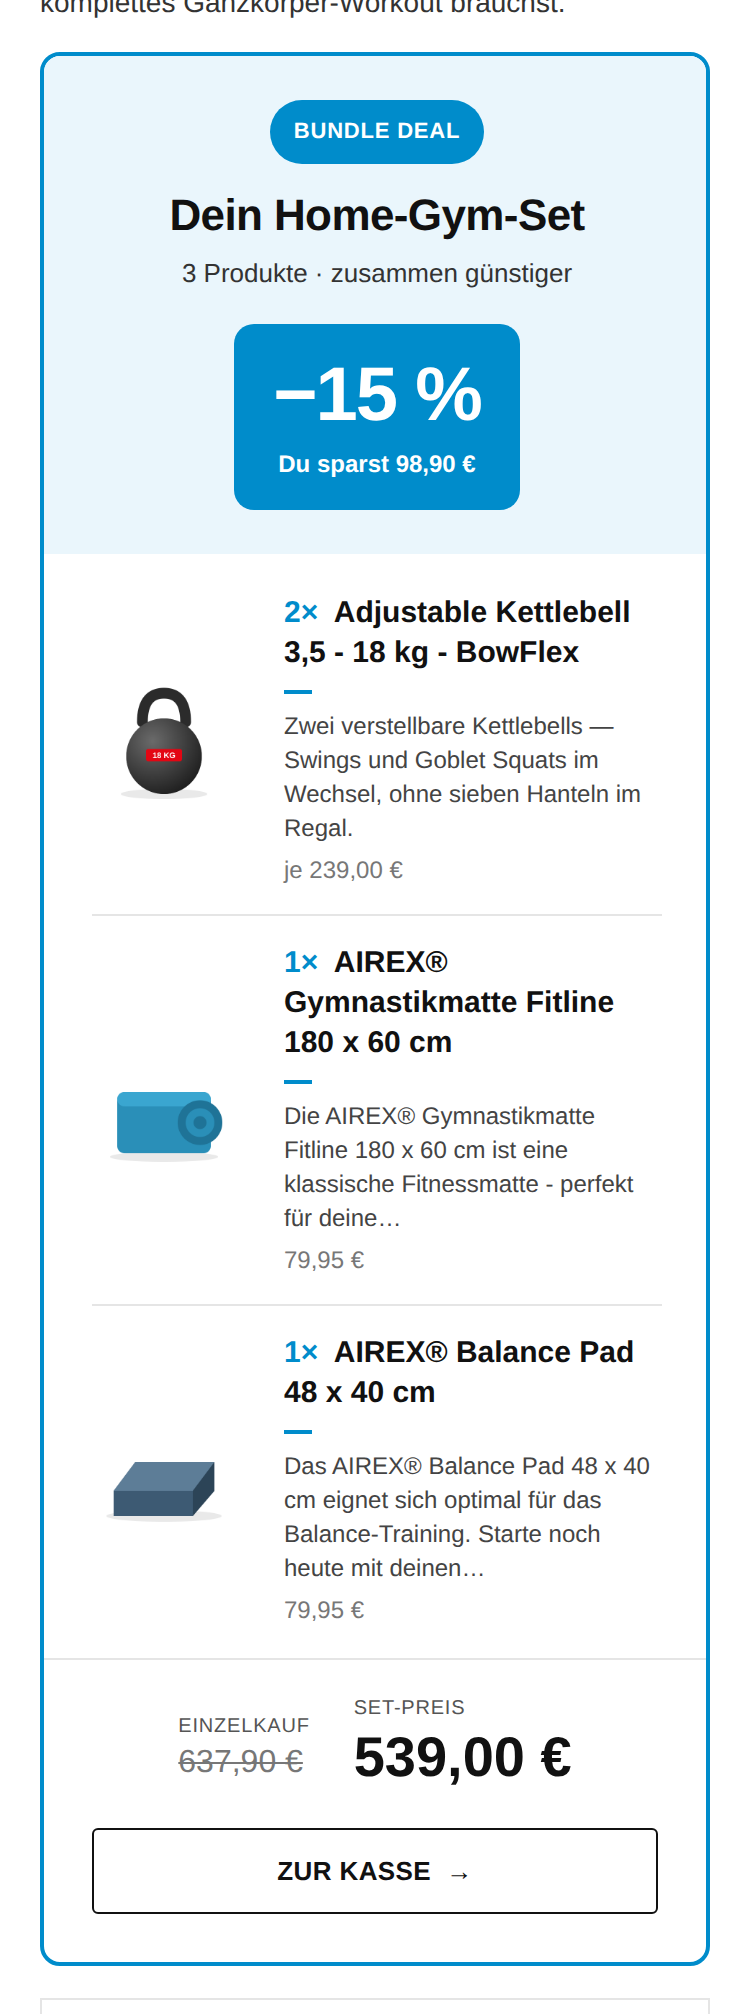
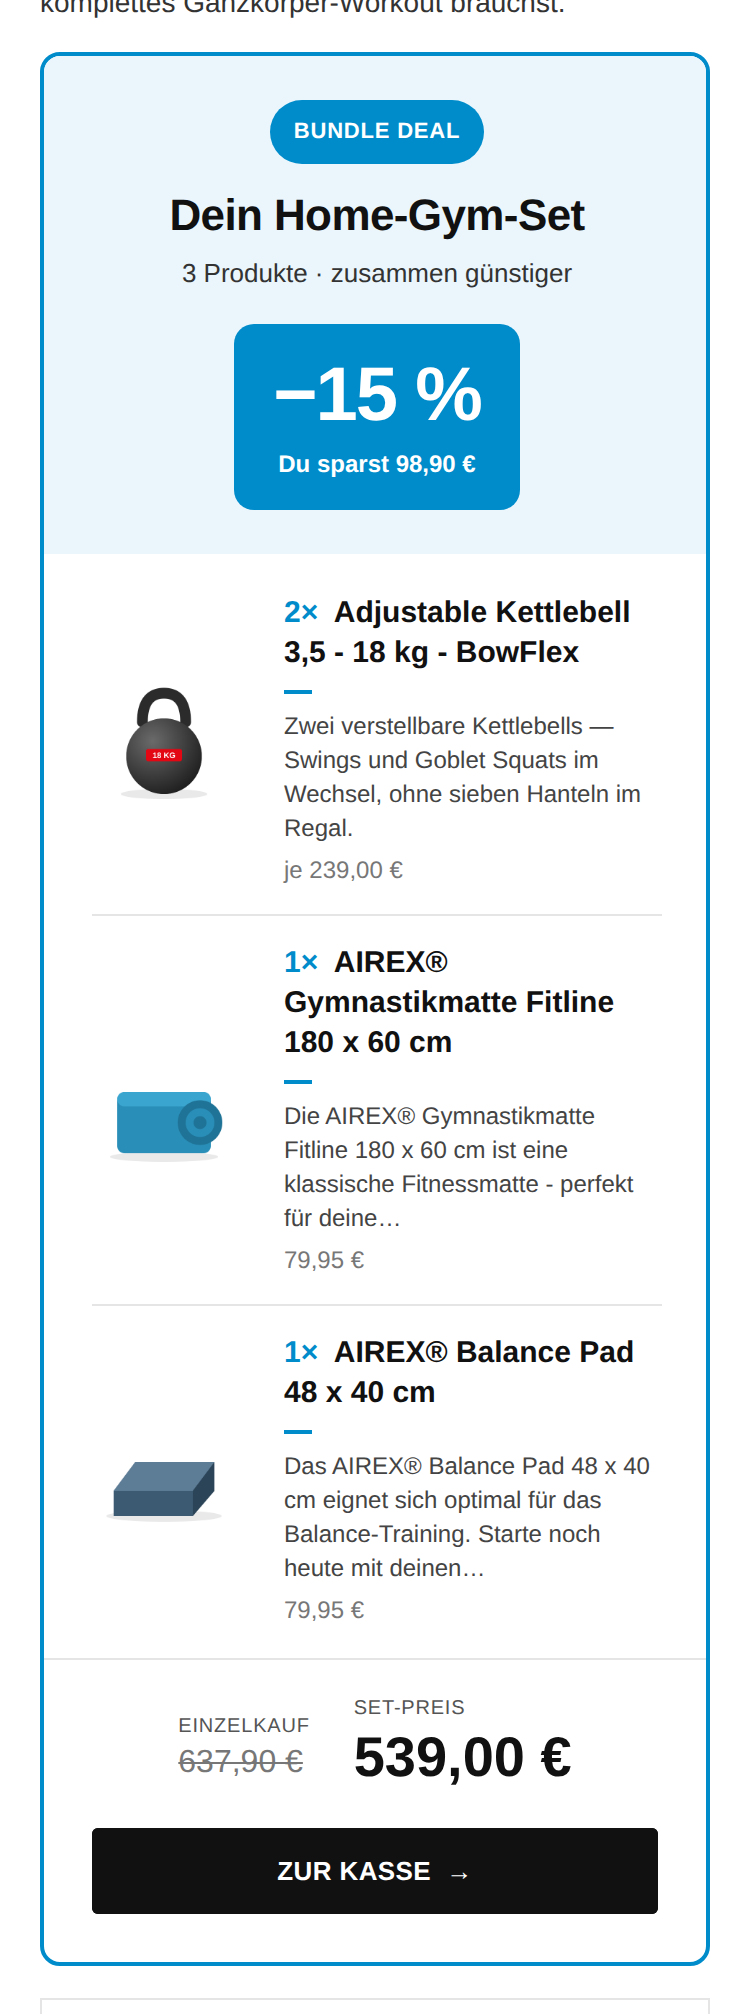
Performance set block: solid black „Zur Kasse“ with white text (#242)
The outline button was hard to see under the set price. The set's one purchase action is now solid black (#111111) with white bold capitals; the black also sits on the table cell so Outlook shows it. „Code einlösen“ and „Zum Produkt“ keep the outline look. Screenshots of the Performance set mail re-rendered. ROLLOUT_TODO: migration 0078 done, #241 live via the Vercel CLI.

Claude-Session: https://claude.ai/code/session_012fxHBW88bMmfRpyx9fu3p7

Changed region(s): [[0.1227, 0.8928, 0.8893, 0.9543]]

diff --git a/src/lib/email-designs/performance.ts b/src/lib/email-designs/performance.ts
@@ -3,13 +3,14 @@
 // CTA — or, in the campaign mail, no button and the picture linking to the
 // shop —, large lifestyle image), bordered product CARDS with price + black
 // outline button, the SET card (one 2px blue frame: saving eyecatcher, item
-// rows, price summary, „Zur Kasse“), the COUPON card and the offer COUNTDOWN
-// in the same light card style (blue badges and rules, black set price, black
-// outline buttons, red digits on light-grey tiles),
+// rows, price summary, a solid black „Zur Kasse“), the COUPON card and the
+// offer COUNTDOWN in the same light card style (blue badges and rules, black
+// set price, black outline buttons, red digits on light-grey tiles),
 // the "Frag Mo" advisor panel, the black-and-white smiley rating, and a clean
 // minimal footer. Everything sits on white — no dark blocks. Text links and
-// the short rules under card titles are BLUE; every card button uses the
-// black outline look of „Beratung mit Mo starten“ (owner, 06.10.2026).
+// the short rules under card titles are BLUE; the card buttons use the black
+// outline look of „Beratung mit Mo starten“ (owner, 06.10.2026) — except the
+// set's „Zur Kasse“, solid black with white text (owner, 12.10.2026).
 //
 // Personalisation hooks:
 //   - HERO IMAGE: activeEmailRenderData().heroImageUrl (the operator-generated
@@ -181,12 +182,29 @@ function redButton(cta: EmailCta, block = false, className = ""): string {
 
 /**
  * The black outline look of „Beratung mit Mo starten“ (white, 1px black
- * border, black bold capitals), full width — the set deal's „Zur Kasse“ and
- * the coupon's „Code einlösen“.
+ * border, black bold capitals), full width — the coupon's „Code einlösen“.
  */
 function outlineBlockButton(cta: EmailCta): string {
   return `
                     <a href="${escapeAttr(cta.url)}" target="_blank" style="display:block; background:#ffffff; color:#111111; border:1px solid #111111; text-align:center; padding:13px 24px; border-radius:3px; font-family:${FONT}; font-size:13px; font-weight:700; letter-spacing:0.2px; text-decoration:none;">${escapeHtml(cta.label.toUpperCase())}&nbsp;&nbsp;&#8594;</a>`;
+}
+
+/**
+ * The set's „Zur Kasse“: solid black with white bold capitals, full width —
+ * the one purchase action of a set mail, so it stands out from the outline
+ * card buttons (owner, 12.10.2026). The black also sits on the table cell
+ * (bgcolor) so Outlook, which ignores an anchor's background and padding,
+ * still shows a black button with white text.
+ */
+function solidBlockButton(cta: EmailCta): string {
+  return `
+                    <table role="presentation" width="100%" cellpadding="0" cellspacing="0" border="0" style="width:100%;">
+                      <tr>
+                        <td align="center" bgcolor="#111111" style="background:#111111; border-radius:3px;">
+                          <a href="${escapeAttr(cta.url)}" target="_blank" style="display:block; background:#111111; color:#ffffff; border:1px solid #111111; text-align:center; padding:13px 24px; border-radius:3px; font-family:${FONT}; font-size:13px; font-weight:700; letter-spacing:0.2px; text-decoration:none;"><span style="color:#ffffff;">${escapeHtml(cta.label.toUpperCase())}&nbsp;&nbsp;&#8594;</span></a>
+                        </td>
+                      </tr>
+                    </table>`;
 }
 
 /** The product cards' „Zum Produkt“: the same black outline look, compact. */
@@ -399,7 +417,7 @@ function bundleBlock(input: BundleOfferBlockInput, c: BundleBlockComputed): stri
                             <tr>${summaryCells}
                             </tr>
                           </table>
-                          ${outlineBlockButton({ label: c.labels.cta, url: input.offerUrl })}
+                          ${solidBlockButton({ label: c.labels.cta, url: input.offerUrl })}
                         </td>
                       </tr>
                     </table>

diff --git a/docs/ROLLOUT_TODO.md b/docs/ROLLOUT_TODO.md
@@ -12,7 +12,7 @@ who owns the Shopify app · **L** = the lawyer · **FE** = the frontend agent (t
 widget).
 Mo's admin is German; English translations are in brackets.
 
-Last updated: 2026-10-11 night (counsel approved dossier § 22 and M said yes to O-1…O-9: copy v6 with the voucher hint, Mo's voucher rule and the confirmation-page note built behind switches (off); Shopify Messaging cannot send personal 30-day codes, so the issuer is open again — new open list 1–6: issuer decision, Shopify preparation, counsel's one-line OK on the final texts, theme texts, the switch-on, the live test); before: 2026-10-11 evening (M's third round: webhooks arrive again; 10f = 0 old-link cases; the welcome code's settings read; test case 8 passed — a chat DOI confirmation fires Shopify Messaging's 5 % welcome mail within a minute; open items 1–2 done, item 3 down to two steps; dossier § 22.1 updated); before: 2026-10-11 afternoon (M's second round: all 13 webhook subscriptions were missing — created, one tag check left; welcome code issued by Shopify Messaging, one shared code; open items 1–3 updated, dossier § 22.1 with the facts); before: 2026-10-11 (M's outputs of `verify:live` / `check:welcome` read: Shopify webhooks down since 05.10. ~16:45 — new open item 1, warnings on the KPI page, in Einstellungen and the Eingang, nightly alert (PR #235); welcome-code candidate: one shared code used by 150 customers, `check:welcome` now prints its settings; old-link check now `verify:live` 10f — the SQL item is gone; the live check of 09.10. done; open list rewritten with copy-paste commands, new C.32); before: 2026-10-08 evening (opt-in reward round of 08.10. built in PR #234 — no migration, no new switch, no widget change: DOI only once, C.29 fixed (Done), `npm run check:welcome`, `verify:live` section 10, KPI blocks of the voucher test, dossier § 22; new open list items 1–5 for M at the top (the old items 1–7 are now 6–12), new C.31); before: 2026-10-08 (the 504 of the Komplettanalyse fixed and pushed to main — Done; open list item 3 (now 8) updated: a stopped report continues when opened); before: 2026-10-06 late evening (three reworks on the branch, live with the next deploy together with the Verbesserung rework: Kunden profile card, KPI screen, Komplettanalyse as a decision report on the new AI tier `strategist` — Done; one migration `0077` for M; new open list item 3 „Neue Auswertungen prüfen“, new C.30; C.26 OI3 B4 needs the next free migration number); before: 2026-10-06 evening (four C tracks built, no migration, no new switch: consent — owner decision: no ask for a blocked address, OI1 F3; retention gaps + `db:reset`; admin texts and copy; attribution §9.1/§9.2/§4.9 — C.26, C.27; new C.28/C.29; Performance mail design on main `599e2e1`; open list item 1 = re-test after M's popup test of 06.10.); before: 2026-10-06 afternoon (widget checks evaluated: page context live and in use, both switches on since 05.10.; consent-popup check open); before: 2026-10-06 (widget `bc7fb5d` live, C.22 done); before: 2026-10-05 evening (all C items of 05.10. built; open list for M at the top; 5.2 + 5.4
+Last updated: 2026-10-12 (sets, offers and Kontakthäufigkeit live after M's CLI deploy and migration `0078` — old open item 12 moved to Done; the Performance set block's „Zur Kasse“ is solid black with white text); before: 2026-10-11 night (counsel approved dossier § 22 and M said yes to O-1…O-9: copy v6 with the voucher hint, Mo's voucher rule and the confirmation-page note built behind switches (off); Shopify Messaging cannot send personal 30-day codes, so the issuer is open again — new open list 1–6: issuer decision, Shopify preparation, counsel's one-line OK on the final texts, theme texts, the switch-on, the live test); before: 2026-10-11 evening (M's third round: webhooks arrive again; 10f = 0 old-link cases; the welcome code's settings read; test case 8 passed — a chat DOI confirmation fires Shopify Messaging's 5 % welcome mail within a minute; open items 1–2 done, item 3 down to two steps; dossier § 22.1 updated); before: 2026-10-11 afternoon (M's second round: all 13 webhook subscriptions were missing — created, one tag check left; welcome code issued by Shopify Messaging, one shared code; open items 1–3 updated, dossier § 22.1 with the facts); before: 2026-10-11 (M's outputs of `verify:live` / `check:welcome` read: Shopify webhooks down since 05.10. ~16:45 — new open item 1, warnings on the KPI page, in Einstellungen and the Eingang, nightly alert (PR #235); welcome-code candidate: one shared code used by 150 customers, `check:welcome` now prints its settings; old-link check now `verify:live` 10f — the SQL item is gone; the live check of 09.10. done; open list rewritten with copy-paste commands, new C.32); before: 2026-10-08 evening (opt-in reward round of 08.10. built in PR #234 — no migration, no new switch, no widget change: DOI only once, C.29 fixed (Done), `npm run check:welcome`, `verify:live` section 10, KPI blocks of the voucher test, dossier § 22; new open list items 1–5 for M at the top (the old items 1–7 are now 6–12), new C.31); before: 2026-10-08 (the 504 of the Komplettanalyse fixed and pushed to main — Done; open list item 3 (now 8) updated: a stopped report continues when opened); before: 2026-10-06 late evening (three reworks on the branch, live with the next deploy together with the Verbesserung rework: Kunden profile card, KPI screen, Komplettanalyse as a decision report on the new AI tier `strategist` — Done; one migration `0077` for M; new open list item 3 „Neue Auswertungen prüfen“, new C.30; C.26 OI3 B4 needs the next free migration number); before: 2026-10-06 evening (four C tracks built, no migration, no new switch: consent — owner decision: no ask for a blocked address, OI1 F3; retention gaps + `db:reset`; admin texts and copy; attribution §9.1/§9.2/§4.9 — C.26, C.27; new C.28/C.29; Performance mail design on main `599e2e1`; open list item 1 = re-test after M's popup test of 06.10.); before: 2026-10-06 afternoon (widget checks evaluated: page context live and in use, both switches on since 05.10.; consent-popup check open); before: 2026-10-06 (widget `bc7fb5d` live, C.22 done); before: 2026-10-05 evening (all C items of 05.10. built; open list for M at the top; 5.2 + 5.4
 done by M alone on 05.10. (Dev Dashboard + Shopify CLI); C.26 = the open follow-ups of the archived plans;
 doc paths follow the new layout — widget docs in `docs/frontend/`, history in `docs/archive/`).
 
@@ -162,17 +162,14 @@ lawyer ready to send, the Shopify steps and the frontend prompt: [`WELCOME_VOUCH
    recognition and purchase attribution — and, before the switch-on (item 5), the welcome voucher and
    the actual mail provider instead of the old MailChimp mentions (OPTIN_REWARD owner to-do 5; with
    issuer (1): Mo sends the welcome mail).
-12. **Kontakthäufigkeit (12.10.): run migration `0078` after the deploy (2 min).** `git pull`, then
-   `npm run db:migrate` (applies `0078_admin_settings.sql` — one new table for settings edited in the
-   dashboard). Until it runs nothing breaks: the desk and Kunden → Marketing warn with the default
-   (3 Werbe-Mails in 30 Tagen) and „Speichern“ in Einstellungen → „Kontakthäufigkeit“ answers
-   „Migration 0078 fehlt — bitte zuerst ausführen.“ After it: Einstellungen → „Kontakthäufigkeit“ →
-   set your threshold (0 in a field = aus) → „Speichern“ → the toast shows it. It is a warning only —
-   „Trotzdem senden“ always sends; the hard „Sperrfrist“ (`MARKETING_MIN_SEND_INTERVAL_DAYS`) is
-   unchanged and shown next to it. Rules: [`CAMPAIGNS.md`](./CAMPAIGNS.md) §3.
 
 ## Done
 
+- [x] **12.10. — sets, offers and Kontakthäufigkeit live (#241).** Migration `0078` run by M. The
+  production deploy came from the Vercel CLI (`npx vercel --prod`) because Vercel's own build could
+  not read the commit from GitHub („Git information retrieval failed“, a GitHub secondary rate limit);
+  M checked the features live. Afterwards the Performance set block's „Zur Kasse“ became solid black
+  with white text (owner).
 - [x] **11.10. — newsletter voucher approved and built (dormant).** Counsel approved dossier § 22
   (F-39…F-47 and the additions; reported by M), M decided O-1…O-9 (50 € from 500 €, personal codes,
   30 days, not for reduced items or Concept2, one per customer, none for checkout or imported

diff --git a/docs/EMAIL_DESIGNS.md b/docs/EMAIL_DESIGNS.md
@@ -62,10 +62,12 @@ a white disc (`public/email-rating-1.png` … `-5.png`, shown at 32 px, alt text
 „sehr gut“) — emoji would render in colour in every mail client.
 
 **Performance colours and buttons (owner, 06.10.2026).** Text links and the short rule under card
-headlines are blue (`#008ccb`, like the badges); every card button — „Zum Produkt“ (single-product
-cards only; the set's item rows have none), „Zur Kasse“, „Code einlösen“ — has the black outline
+headlines are blue (`#008ccb`, like the badges); the card buttons „Zum Produkt“ (single-product
+cards only; the set's item rows have none) and „Code einlösen“ have the black outline
 look of „Beratung mit Mo starten“ (white, 1 px `#111111`
-border, black bold capitals). Red remains for the filled primary call-to-action buttons (the hero
+border, black bold capitals). The set's **„Zur Kasse“** — the one purchase action of a set mail —
+is solid black (`#111111`) with white bold capitals (owner, 12.10.2026; the black also sits on the
+table cell so Outlook shows it). Red remains for the filled primary call-to-action buttons (the hero
 button and extra CTA rows of non-campaign mails, the `ctaButton` hook), a reduced price next to the
 struck-through old one, and the countdown digits.
 
@@ -184,7 +186,7 @@ design:
 
 Performance: a 2 px blue (`#008ccb`) frame with a 10 px radius, a pale-blue eyecatcher band
 (`#eaf6fc`) with the blue pill and a solid blue badge, the rows with the blue stroke of the product
-cards, the black outline „Zur Kasse“ button. Classic: a 2 px frame and the badge in
+cards, the solid black „Zur Kasse“ button with white text. Classic: a 2 px frame and the badge in
 `emailAccentColor()`, the band a light tint of it (`tintHex`), the theme's CTA button
 (`renderCtaButton`) under the „Dein persönliches Angebot“ band — Studio inherits this with its black
 accent and square button. On phones (shell media rules) the eyecatcher stacks centred and each row
